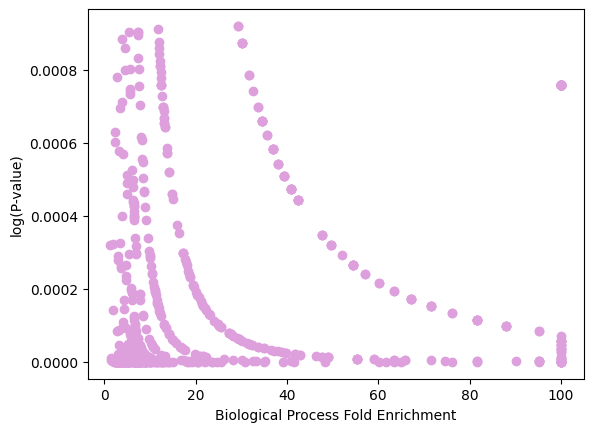
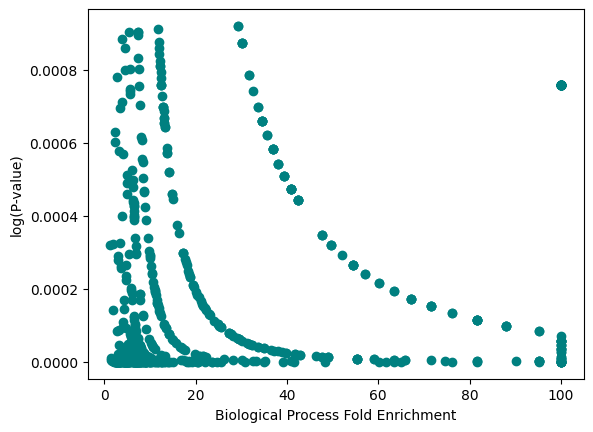
figs

diff --git a/plot_term_enrichment.py b/plot_term_enrichment.py
@@ -48,7 +48,7 @@ def go_enrichment_plot(dataframe, go_type, top_n=None):
     ax.legend()  # Show legend
     plt.show()
 
-def go_volcano_plot(dataframe, go_type):
+def go_volcano_plot(dataframe, go_type, color):
     dataframe = dataframe.copy()
     dataframe['Fold Enrichment'] = dataframe['Fold Enrichment'].apply(clean_fold_enrichment).sort_values(ascending=False)
     
@@ -60,21 +60,50 @@ def go_volcano_plot(dataframe, go_type):
 
     dataframe["P-value"] = np.log10(np.add(dataframe["P-value"], 1))
 
-    plt.scatter(dataframe["Fold Enrichment"], dataframe["P-value"], color = "plum")
+    plt.scatter(dataframe["Fold Enrichment"], dataframe["P-value"], color = color)
     plt.xlabel(f"{go_type} Fold Enrichment")
     plt.ylabel("log(P-value)")
+    plt.show()
+
+def volcano_overlay(dataframe, colors):
+    dataframe = dataframe.copy()
+    dataframe['Fold Enrichment'] = dataframe['Fold Enrichment'].apply(clean_fold_enrichment).sort_values(ascending=False)
+    
+    dataframe["FDR"] = pd.to_numeric(dataframe["FDR"], errors='coerce')
+
+    dataframe["FDR"] = np.log10(np.add(dataframe["FDR"], 1))
+
+    dataframe["P-value"] = pd.to_numeric(dataframe["P-value"], errors='coerce')
+
+    dataframe["P-value"] = np.log10(np.add(dataframe["P-value"], 1))
+    # Create subplots
+    fig, ax = plt.subplots(figsize=(5,7))
+
+    # Plot horizontal bars
+    ax.barh(dataframe[go_type], dataframe["Fold Enrichment"], color="skyblue", label="Fold Enrichment", height=0.2)
+
+    # Overlay scatter plot (points at end of bars, sized by number of genes
+    ax.scatter(dataframe["Fold Enrichment"], dataframe[go_type], 
+            s=dataframe["Genes"] * 5,  # Scale point size for visibility
+            color='orangered', edgecolors='black', label="Genes")
+
+    # Formatting
+    plt.subplots_adjust(left=0.6)  # Adjust spacing for labels
+    ax.set_ylabel(go_type)
+    ax.set_xlabel("Fold Enrichment")
+    ax.legend()  # Show legend
     plt.show()
 
 
 molF_plot = go_enrichment_plot(molF, "Molecular Function")
 
 bioP_plot = go_enrichment_plot(bioP, "Biological Process", 50) # major overplotting issues, so select bottom 50 enrichment scores (many genes express this process)
-bioP_volcano = go_volcano_plot(bioP, "Biological Process")
+bioP_volcano = go_volcano_plot(bioP, "Biological Process", "teal")
 
 celC_plot = go_enrichment_plot(celC, "Cellular Component")
 
-molF_volcano = go_volcano_plot(molF, "Molecular Function")
+molF_volcano = go_volcano_plot(molF, "Molecular Function", "orangered")
 
-celC_volcano = go_volcano_plot(celC, "Cellular Component")
+celC_volcano = go_volcano_plot(celC, "Cellular Component", "violet")
 
 
